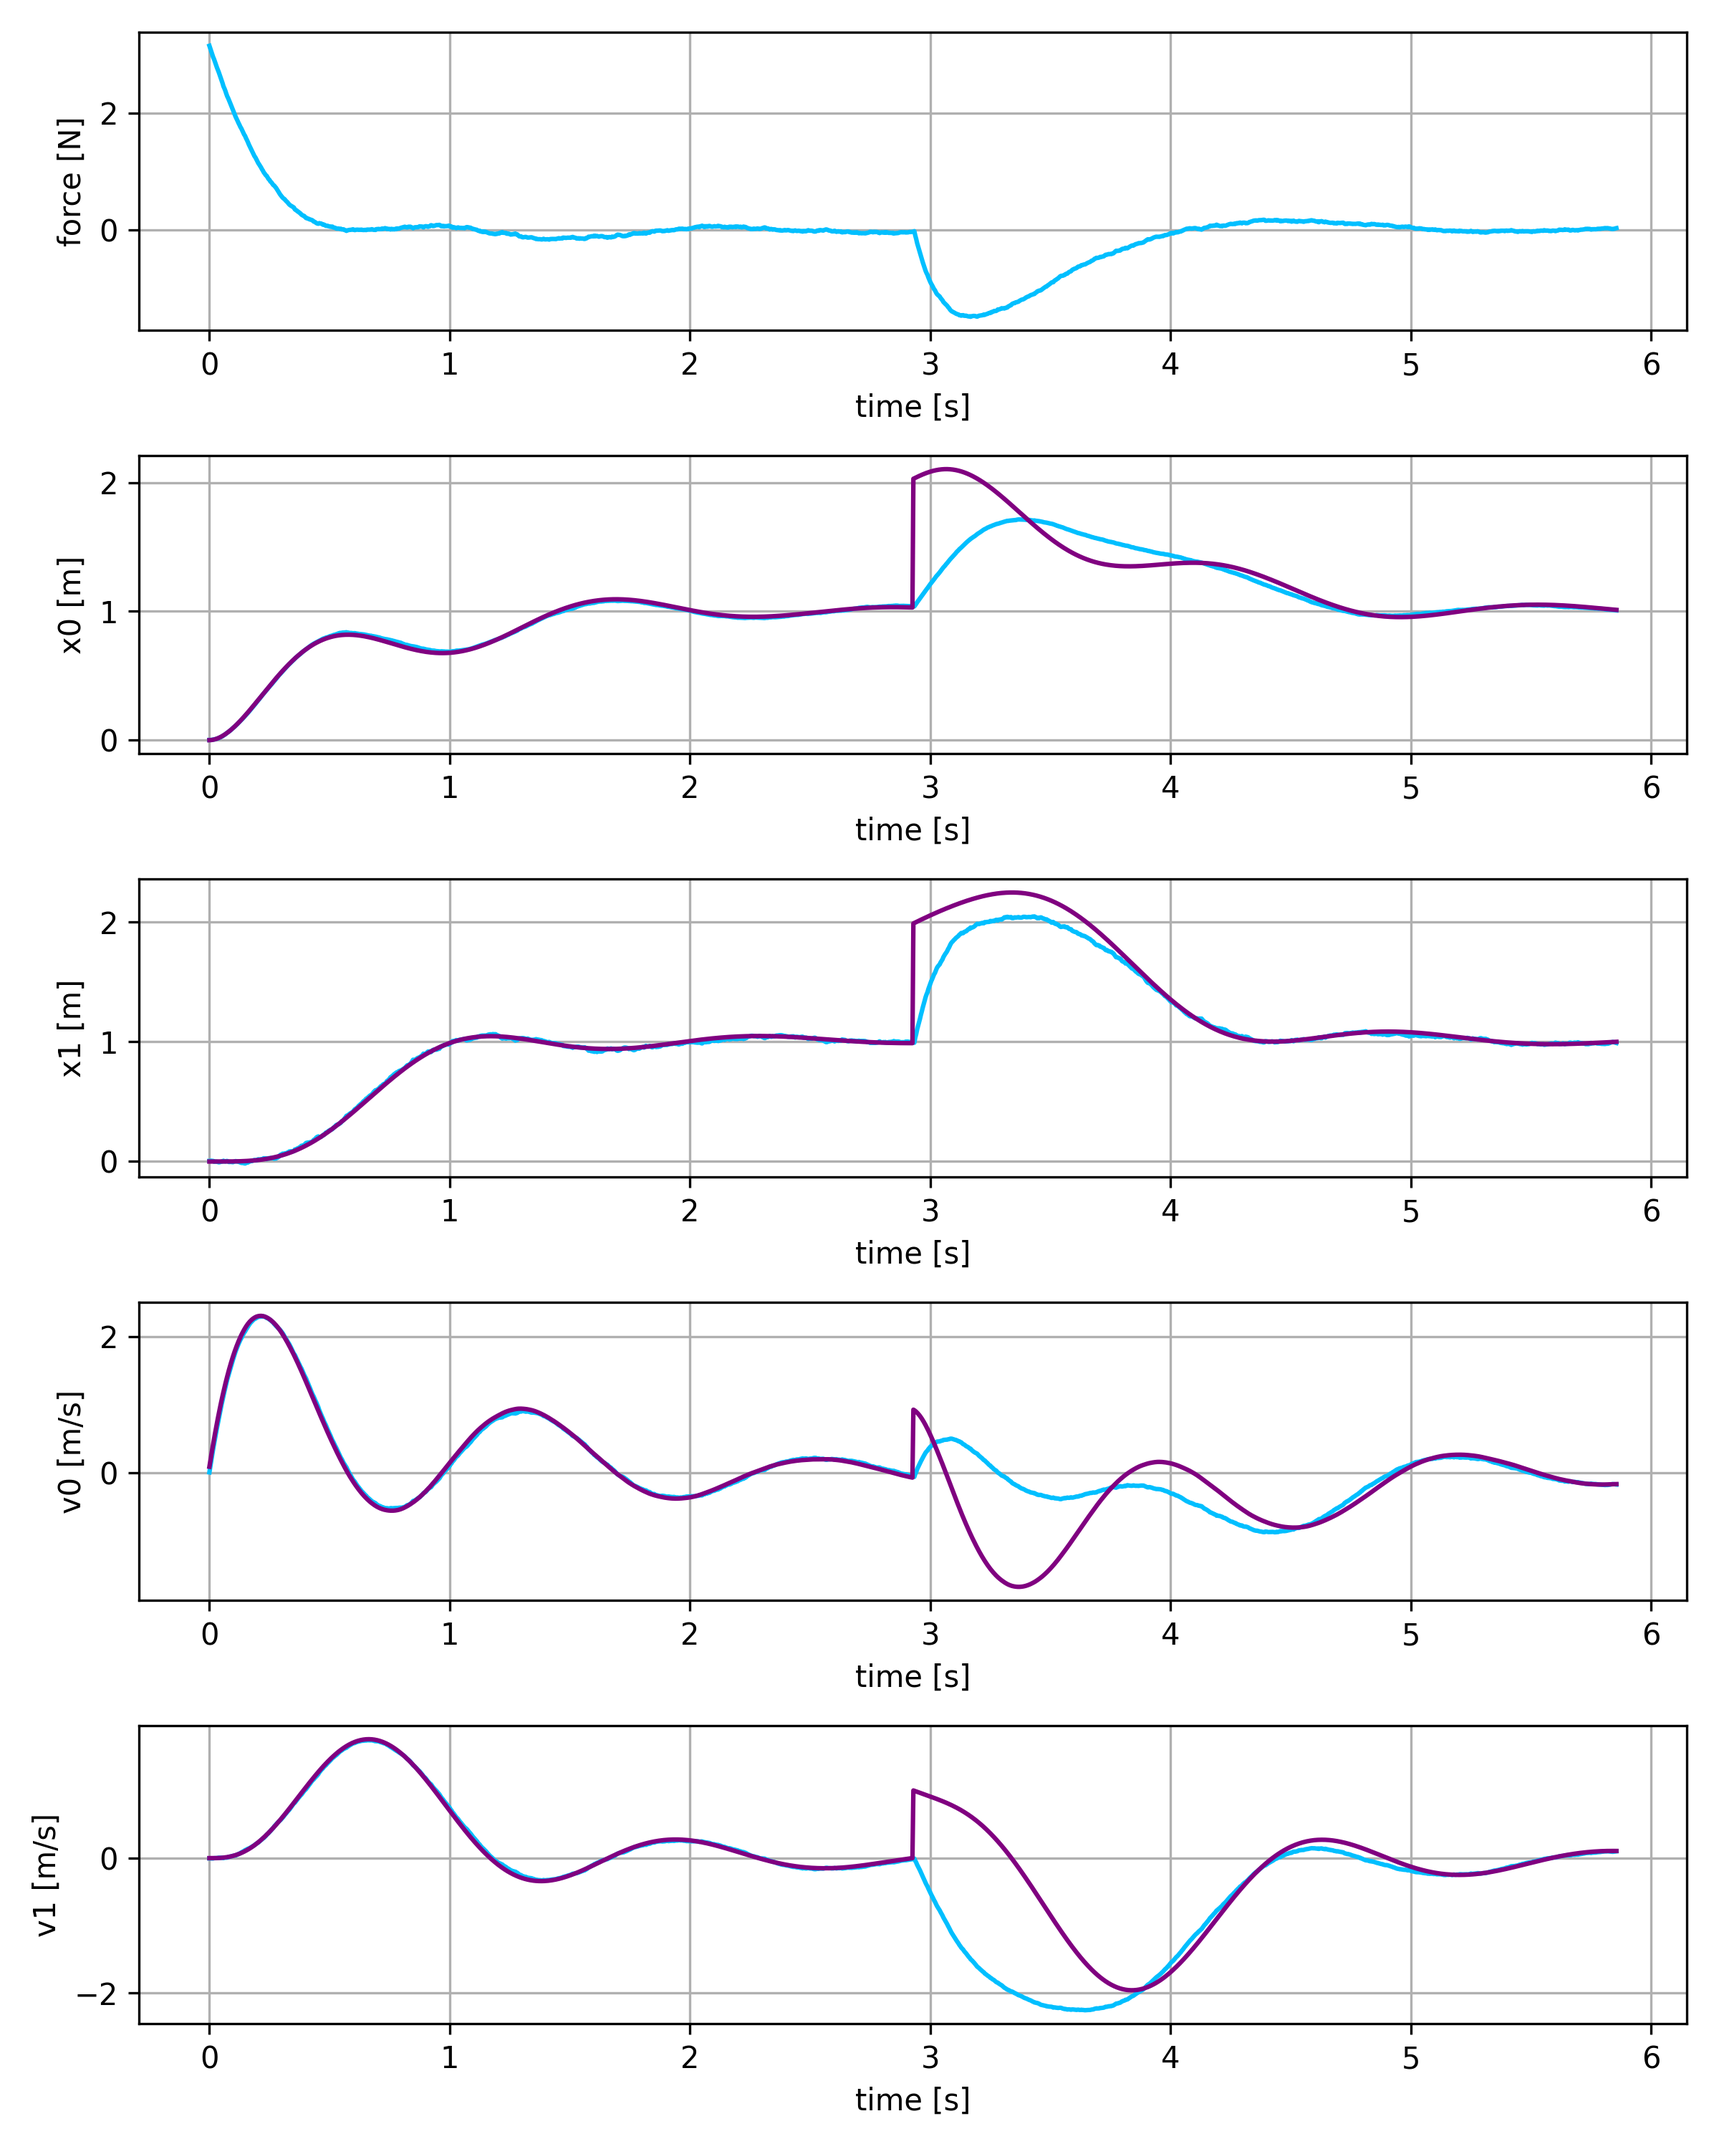
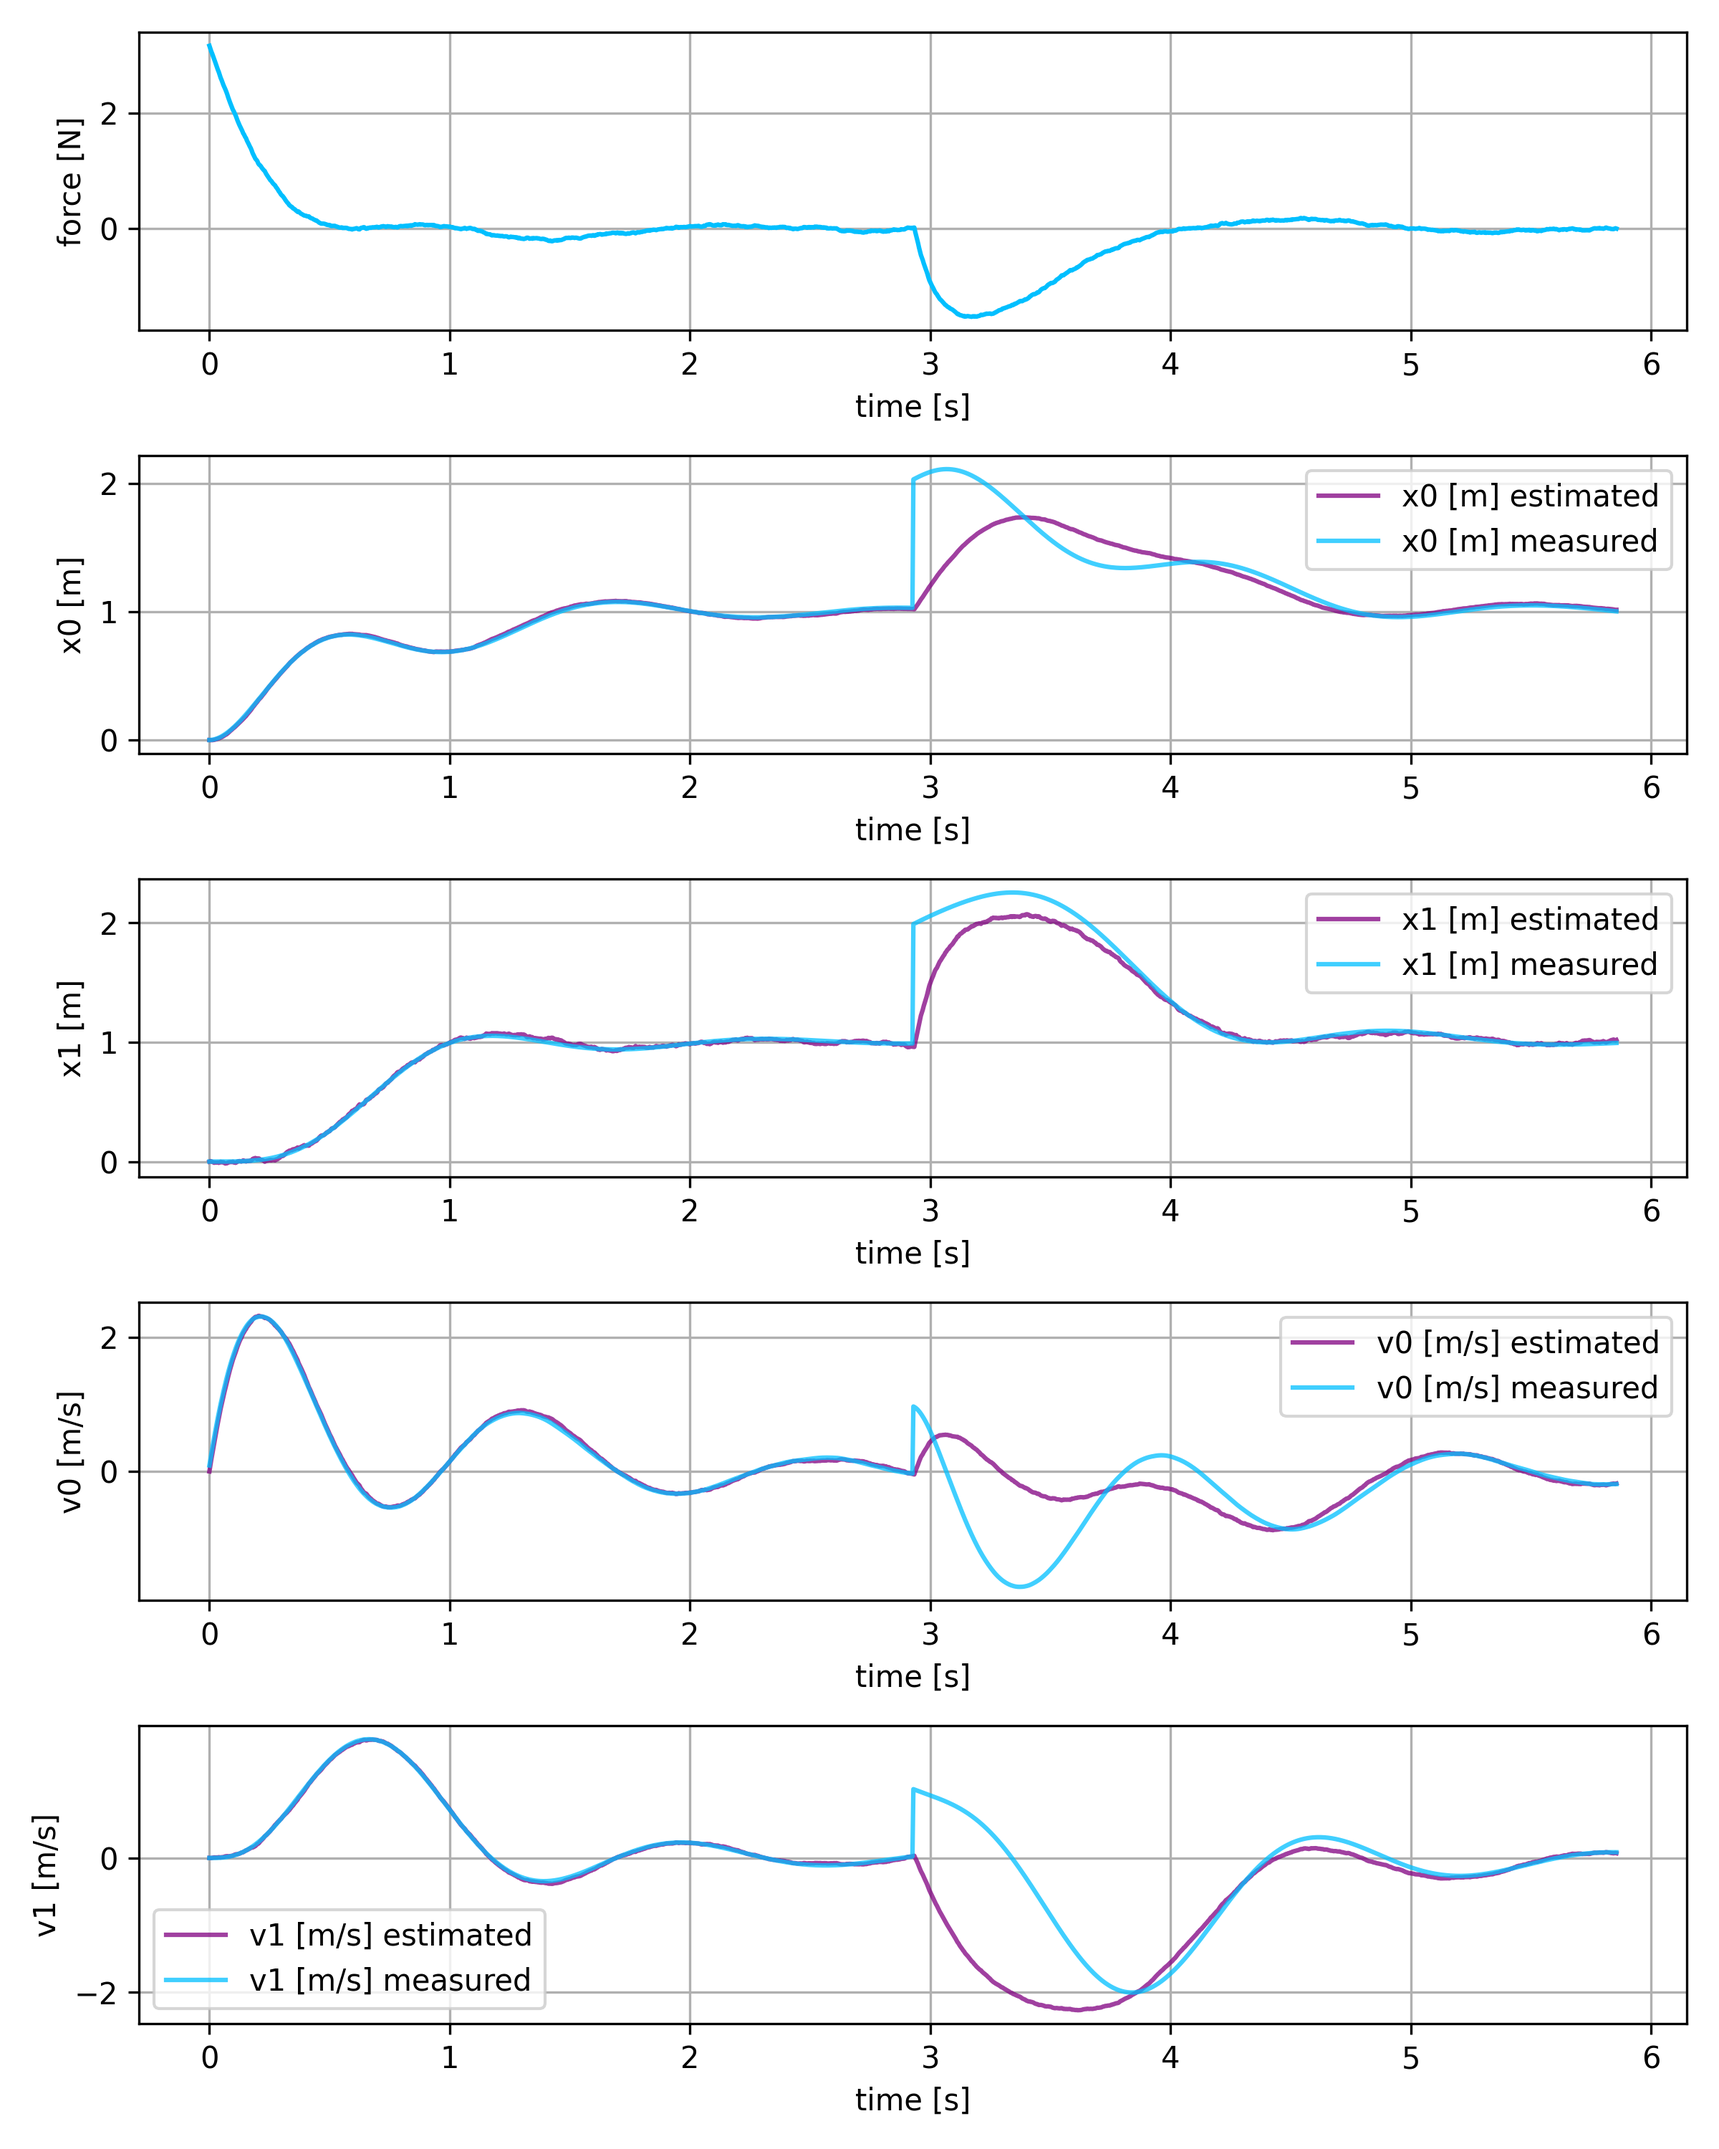
variance in LQG

diff --git a/LibsControl/libs_common/lqg_solver.py b/LibsControl/libs_common/lqg_solver.py
@@ -2,16 +2,53 @@ import numpy
 import scipy.linalg
 import matplotlib.pyplot as plt
 
+'''
+solve LQG for dynamical system : 
+dx = A@x + B@u
+y  = Cx
 
+controller : 
+u = -K@x_hat + Gx_r
+
+Kalman observer : 
+dx_hat = Ax_hat + Bu + F(y - y_hat)
+y_hat  = Cx_hat
+
+where : 
+N : system order
+M : system inputs count
+K : system outputs count
+
+A : system dynamic matrix, NxN
+B : system input   matrix, NxM
+C : system output matrix,  KxM
+
+x   : state column vector, Nx1
+x_r : required state, same shape as x
+u   : control input, column vector, Mx1
+
+Q : diagonal matrix, NxN, weighting for required state elements
+R : diagonal matrix, MxM, weighting for controll value
+W : observation noise variance matrix, KxK
+
+
+returns : 
+
+K : computed controller feedback matrix, MxN
+G : computed required state (x_r) scaling matrix, to remove steady state error, Nx1
+F : kalman gain matrix, NxN
+'''
 
 class LQGSolver:
 
-    def __init__(self, a, b, c, q, r, dt):
+
+    def __init__(self, a, b, c, q, r, w, dt):
         self.a = a
         self.b = b
         self.c = c
         self.q = q
         self.r = r
+        self.w = w
         self.dt= dt
  
         
@@ -19,7 +56,7 @@ class LQGSolver:
         self.k = self._find_k(self.a, self.b, self.q, self.r)
         self.g = self._find_g(self.a, self.b, self.k)
 
-        self.f = self._find_f(self.a, self.c, self.q)
+        self.f = self._find_f(self.a, self.c, self.q, self.w)
 
         #self.f = numpy.zeros((4, 2))
 
@@ -77,14 +114,12 @@ class LQGSolver:
         return g
     
 
-    def _find_f(self, a, c, q):
-
-        r = numpy.eye(c.shape[0])*0.01
+    def _find_f(self, a, c, q, w):
         
         # continuous-time algebraic Riccati equation solution
-        p = scipy.linalg.solve_continuous_are(a.T, c.T, q, r)
+        p = scipy.linalg.solve_continuous_are(a.T, c.T, q, w)
 
-        f = (p@c.T)@scipy.linalg.inv(r)
+        f = (p@c.T)@scipy.linalg.inv(w)
        
         return f
     
@@ -106,11 +141,11 @@ class LQGSolver:
         
         for n in range(steps):
 
-            y_obs       = y + observation_noise*numpy.random.randn(y.shape[0], y.shape[1])
+            
         
             #kalman observer
             y_hat   = c@x_hat
-            e       = y_obs - y_hat
+            e       = y - y_hat
             dx_hat  = a@x_hat + b@u + f@e
             x_hat   = x_hat + dx_hat*self.dt
             
@@ -122,6 +157,8 @@ class LQGSolver:
             x       = x + (a@x + b@u)*self.dt
             y       = c@x
             
+            y       = y + observation_noise*numpy.random.randn(y.shape[0], y.shape[1])
+
             #disturbance for testing
             if disturbance == True and n == steps//2:
                 x[:, 0]+= 1

diff --git a/examples/04_lqg_two_carts/lqg_carts.py b/examples/04_lqg_two_carts/lqg_carts.py
@@ -38,6 +38,8 @@ if __name__ == "__main__":
 
 
     dt          = 1.0/256
+    
+    observation_noise = 0.1
 
     steps = 1500
 
@@ -45,6 +47,9 @@ if __name__ == "__main__":
 
     q = numpy.array([ [0.0, 0.0, 0.0, 0.0], [0.0, 1.0, 0.0, 0.0], [0.0, 0.0, 0.0, 0.0], [0.0, 0.0, 0.0, 0.0] ] )
     r = numpy.array( [ [0.1] ]) 
+
+    #measurement noise matrix
+    w = (observation_noise**2)*numpy.eye(mat_c.shape[0])
 
 
     ds   = LibsControl.DynamicalSystem(mat_a, mat_b, mat_c, dt=dt)
@@ -57,7 +62,7 @@ if __name__ == "__main__":
 
 
  
-    lqg     = LibsControl.LQGSolver(ds.mat_a, ds.mat_b, ds.mat_c, q, r, dt)
+    lqg     = LibsControl.LQGSolver(ds.mat_a, ds.mat_b, ds.mat_c, q, r, w, dt)
 
     k, g, f = lqg.solve()
 
@@ -79,7 +84,8 @@ if __name__ == "__main__":
     xr = numpy.array([[0.0, 1.0, 0.0, 0.0]]).T
 
     #step response
-    u_result, x_result, x_hat_result, y_result = lqg.closed_loop_response(xr, steps, observation_noise = 0.1, disturbance = True)
+    u_result, x_result, x_hat_result, y_result = lqg.closed_loop_response(xr, steps, observation_noise = observation_noise, disturbance = True)
 
     LibsControl.plot_closed_loop_response(t_result, u_result, x_result, x_hat_result, "results/closed_loop_response.png", ["force [N]"], ["x0 [m]", "x1 [m]", "v0 [m/s]", "v1 [m/s]"] )
+    LibsControl.plot_closed_loop_response(t_result, u_result, y_result, x_hat_result[:, 0:2], "results/closed_loop_response_observed.png", ["force [N]"], ["x0 [m]", "x1 [m]"] )
     

diff --git a/LibsControl/libs_utils/plots.py b/LibsControl/libs_utils/plots.py
@@ -79,13 +79,18 @@ def plot_closed_loop_response(t_result, u_result, x_result, x_hat = None, file_n
             lbl = "x[" + str(i) + "]"
 
         if x_hat is not None:
-            axs[idx].plot(t_result, x_hat[:, i], label=lbl, color="deepskyblue")
 
-   
-        axs[idx].plot(t_result, x_result[:, i], label=lbl, color="purple")
+            axs[idx].plot(t_result, x_hat[:, i], label=lbl + " estimated", color="purple", alpha=0.75)
+            axs[idx].plot(t_result, x_result[:, i], label=lbl + " measured", color="deepskyblue", alpha=0.75)
+
+        else:
+            axs[idx].plot(t_result, x_result[:, i], label=lbl, color="deepskyblue", alpha=0.75)
         
         axs[idx].set_xlabel("time [s]")
         axs[idx].set_ylabel(lbl)
+
+        if x_hat is not None: 
+            axs[idx].legend()
         axs[idx].grid()
 
         idx+= 1

diff --git a/LibsControl/libs_common/lqr_solver.py b/LibsControl/libs_common/lqr_solver.py
@@ -3,7 +3,32 @@ import scipy.linalg
 import matplotlib.pyplot as plt
 
 
+'''
+solve LQR for dynamical system : 
+dx = A@x + B@u
 
+controller : 
+u = -K@x + Gx_r
+
+where : 
+N : system order
+M : system inputs count
+
+A : system dynamic matrix, NxN
+B : system input   matrix, NxM
+
+x   : state column vector, Nx1
+x_r : required state, same shape as x
+u   : control input, column vector, Mx1
+
+Q : diagonal matrix, NxN, weighting for required state elements
+R : diagonal amtrix, MxM, weighting for controll value
+
+returns : 
+
+K : computed controller feedback matrix, shape MxN
+G : computed required state (x_r) scaling matrix, to remove steady state error, Nx1
+'''
 class LQRSolver:
 
     def __init__(self, a, b, c, q, r, dt):
